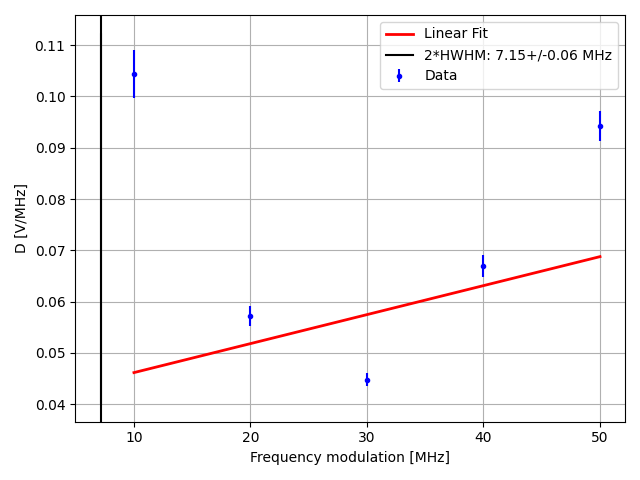
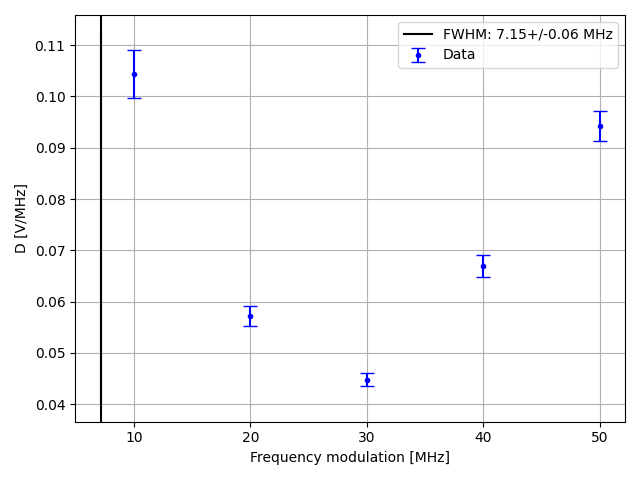
better err signal slope plot

diff --git a/error_signal_slope.py b/error_signal_slope.py
@@ -54,24 +54,9 @@ mod_ampl = slope_data['mod_ampl'].to_numpy()/1000
 D_values = np.abs(slope_data['D'].to_numpy())
 d_D = slope_data['d_D'].to_numpy()
 
-
-def linear(x, a, b):
-    return a * x + b
-
-
-popt, pcov = curve_fit(linear, xdata=mod_f, ydata=D_values, p0=[
-                       0, np.mean(D_values)], sigma=d_D, absolute_sigma=True)
-
-print(f'Fit result: a = {popt[0]} +/- {np.sqrt(pcov[0, 0])} V*MHz^-2')
-print(f'b = {popt[1]} +/- {np.sqrt(pcov[1, 1])} V')
-
-xplot = np.linspace(mod_f[0], mod_f[-1], 100)
-
 plt.figure()
-plt.errorbar(mod_f, D_values, d_D, ls='', label='Data', color='blue', fmt='.')
-plt.plot(xplot, linear(xplot, *popt),
-         label='Linear Fit', color='red', linewidth=2)
-plt.axvline(hwhm.n, color='black', label=f'2*HWHM: {hwhm} MHz')
+plt.errorbar(mod_f, D_values, d_D, ls='', label='Data', color='blue', fmt='.', capsize=5)
+plt.axvline(hwhm.n, color='black', label=f'FWHM: {hwhm} MHz')
 y_min, y_max = plt.gca().get_ylim()
 plt.fill_betweenx(y=np.linspace(y_min, y_max, 100), x1=hwhm.n -
                   hwhm.std_dev, x2=hwhm.n + hwhm.std_dev, color='grey', alpha=0.3)
@@ -92,22 +77,37 @@ def extract_beta(x, asac):
 x = np.linspace(0, 2, 100)
 y = (jv(1, x))**2 / (jv(0, x))**2
 
-beta = [fsolve(partial(extract_beta, asac=ratio.nominal_value), 0.9)[0]
-        for ratio in As_Ac]
+beta = np.array([fsolve(partial(extract_beta, asac=ratio.nominal_value), 0.9)[0]
+        for ratio in As_Ac])
 
-print(beta)
+beta_plus = np.array([fsolve(partial(extract_beta, asac=(ratio.nominal_value + ratio.std_dev)), 1)[0]
+             for ratio in As_Ac])
+
+beta_minus = np.array([fsolve(partial(extract_beta, asac=(ratio.nominal_value - ratio.std_dev)), 1)[0]
+              for ratio in As_Ac])
+
+beta_plus = np.abs(beta_plus - beta)
+beta_minus = np.abs(beta_minus - beta)
+
+d_beta = [max(a, b) for a, b in zip(beta_minus, beta_plus)]
+beta = unp.uarray(beta, d_beta)
 
 v_pi = mod_ampl * np.pi / beta
+
 
 def linear(x, a, b):
     return a * x + b
 
-popt, pcov = curve_fit(linear, mod_f, v_pi)
+
+popt, pcov = curve_fit(linear, mod_f, unp.nominal_values(
+    v_pi), sigma=unp.std_devs(v_pi), absolute_sigma=True)
 x_line = np.linspace(min(mod_f), max(mod_f))
 
 plt.figure()
-plt.scatter(mod_f, v_pi, color='blue', marker='o', s=20, label='data')
-plt.plot(x_line, linear(x_line, *popt), color='red', linewidth=2, label='linear fit')
+plt.errorbar(mod_f, unp.nominal_values(v_pi), yerr=unp.std_devs(
+    v_pi), color='blue', marker='.', ls='', label='data', capsize=5)
+plt.plot(x_line, linear(x_line, *popt), color='red',
+         linewidth=2, label='linear fit')
 plt.xlabel('Frequency modulation [MHz]')
 plt.ylabel(r'$\text{V}_{\pi}$ [V]')
 plt.grid()

diff --git a/bessel_analysis_2.py b/bessel_analysis_2.py
@@ -172,11 +172,11 @@ def sb1r_func(par, x):
 
 
 def sb2l_func(par, x):
-    return (-jv(2, x) + par[0]/2*(jv(1, x) + jv(3, x)))**2
+    return (jv(2, x) - par[0]/2*(jv(1, x) + jv(3, x)))**2
 
 
 def sb2r_func(par, x):
-    return (-jv(2, x) + par[0]/2*(jv(1, x) + jv(3, x)))**2
+    return (jv(2, x) + par[0]/2*(jv(1, x) + jv(3, x)))**2
 
 
 def odr_fit(func, x, y, xerr, yerr, beta0):
